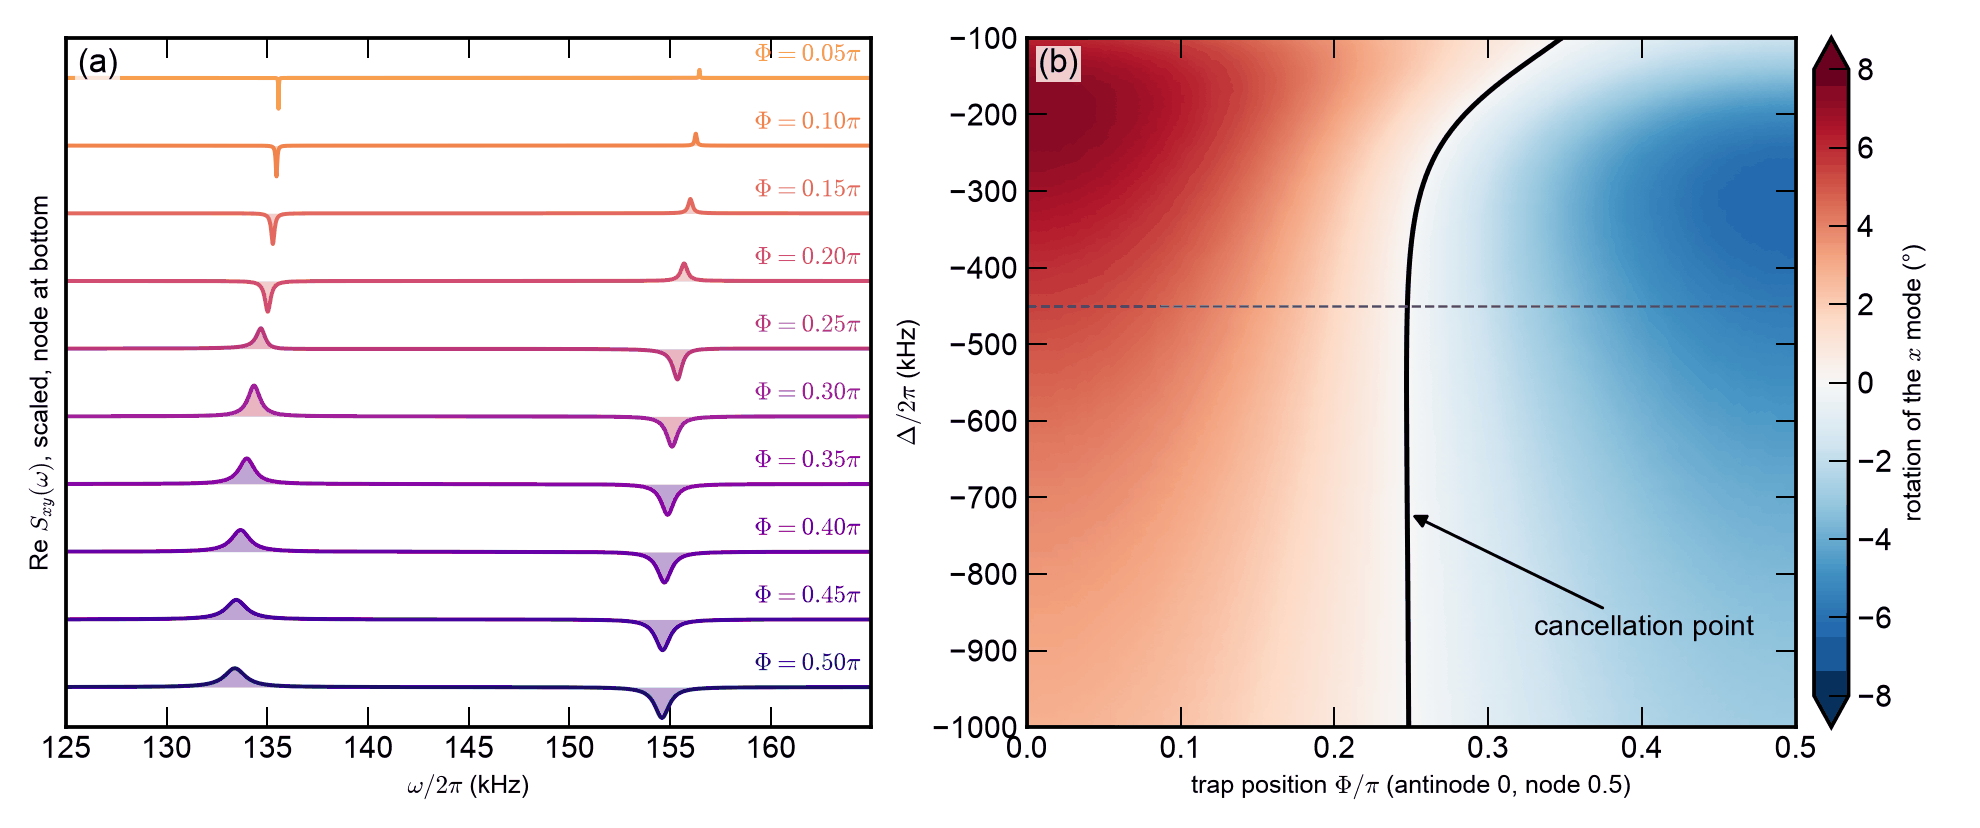
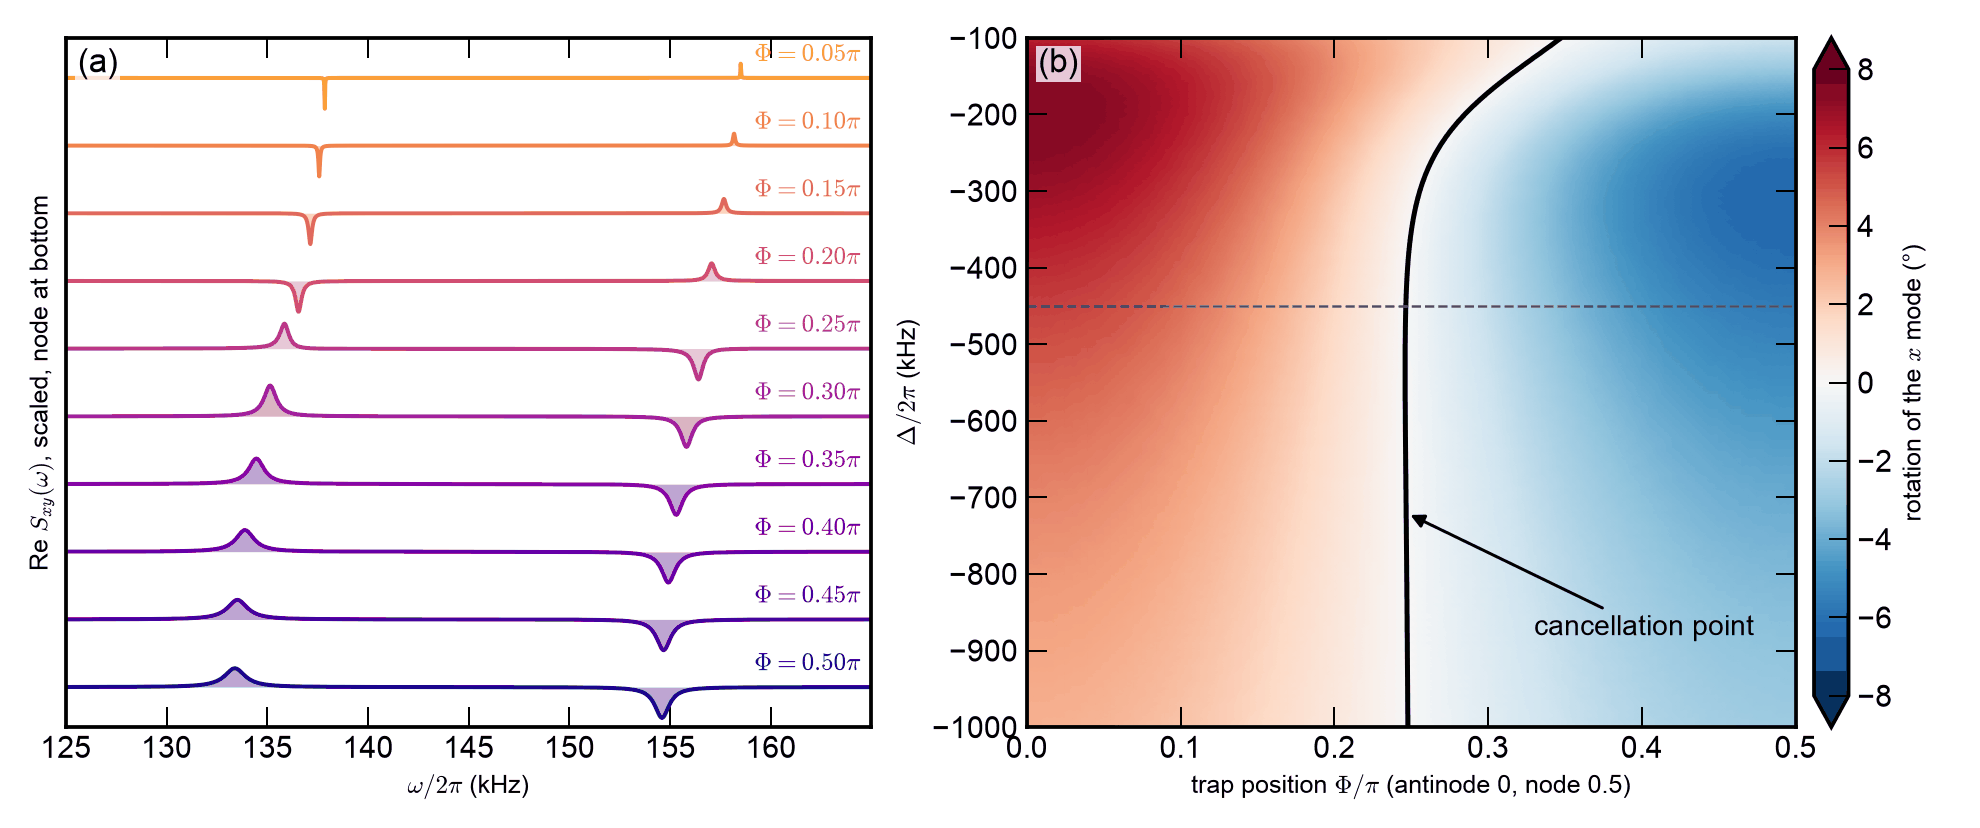
PRR 5 showcase: redraw with the static cavity shifts on (decision 5)
The figure now uses MultiTrap's defaults (static shifts and the 1.0 static-field corrections) instead
of static_cavity_shifts=False. The S_xy peaks move up by up to 2.3 kHz towards the antinode; the
rotation's cancellation point moves from 0.248π to 0.247π at Δ/2π = -450 kHz (0.256π at -300,
0.313π at -150, 0.248π at -1000 kHz unchanged); the net frequency shifts cross zero at 0.256π (x) and
0.255π (y) for -450 kHz (0.257π, 0.256π with the 0.1.1 model) and 0.315π, 0.3085π for -150 kHz.
Caption, showcase page and README say so.

diff --git a/docs/guide/scripts/showcase/prr5_mode_orientations.py b/docs/guide/scripts/showcase/prr5_mode_orientations.py
@@ -15,13 +15,15 @@ modes keep their unperturbed orientation and the x-y cross spectrum S_xy vanishe
     (b) rotation of the x-like normal mode away from the tweezer x axis, over Φ and the detuning Δ,
         from the eigenvectors of the drift matrix; the black contour is the cancellation point
 
-The figure is drawn with static_cavity_shifts=False, the model this showcase was first made with.
-`MultiTrap` now also includes the static coherent-scattering shift of the mechanical frequencies (on
-by default; see `MultiTrap.setup_static_cavity_shifts`). It moves the cancellation point by at most
-0.001π, and with it the net frequency shift of both modes (static stiffening minus optical spring)
-crosses zero at Φ = 0.257π (x) and 0.255π (y) for Δ/2π = -450 kHz, beside the rotation's 0.248π,
-and at 0.315π and 0.308π for -150 kHz (rotation, with the shifts: 0.3135π; without: 0.3133π): the paper's coincidence of the two
-cancellations.
+The figure is drawn with levisim's defaults, which include the static coherent-scattering shifts of
+the mechanical frequencies (`MultiTrap.setup_static_cavity_shifts`) and the static-field
+corrections of levisim 1.0 (tweezer phases, the dispersive coupling and pull of the cavity's own
+standing wave, the cavity mode envelope, Re α_eff): the physics of the paper. Until levisim 1.0 it was
+drawn with static_cavity_shifts=False, as first made. With the shifts the S_xy peaks move up by up to
+2.3 kHz towards the antinode, and the cancellation point of the rotation moves from 0.248π to 0.247π
+at Δ/2π = -450 kHz (0.313π at -150 kHz either way); the net frequency shift of both modes (static
+stiffening minus optical spring) crosses zero at Φ = 0.256π (x) and 0.255π (y) for Δ/2π = -450 kHz,
+and at 0.315π and 0.3085π for -150 kHz: the paper's coincidence of the two cancellations.
 """
 import sys
 from pathlib import Path
@@ -50,7 +52,7 @@ def one_particle(Φ, Δ=DEFAULT_cavity_kwargs['Δ'], ω_range=np.arange(125, 165
         cavity_kwargs=dict(DEFAULT_cavity_kwargs, Δ=Δ),   # L = 0.96 cm, finesse 40 000
         beads=[Bead(Φ=Φ)],
         ω_range=ω_range,
-        static_cavity_shifts=False,                       # reproduces the published figure without them
+        # levisim's defaults: the static cavity shifts and the static-field corrections of 1.0 on
     )
 
 

diff --git a/docs/showcase/prr5_mode_orientations.md b/docs/showcase/prr5_mode_orientations.md
@@ -37,8 +37,8 @@ scaled to its own largest value. The $x$ and $y$ motions are always anticorrelat
 sign at $\Omega_y/2\pi \approx 134$ kHz and $\Omega_x/2\pi \approx 155$ kHz), and the sign of the
 pattern flips between $\Phi = 0.25\pi$ and $0.20\pi$. **(b)** The rotation of the $x$-like normal mode
 away from the tweezer $x$ axis, from the eigenvectors of the drift matrix, over $\Phi$ and $\Delta$. The
-black contour, where the rotation is zero, is the cancellation point: $\Phi_\text{c} = 0.248\pi$ at
-$\Delta/2\pi = -450$ kHz and $-1000$ kHz, moving towards the node as the detuning approaches the
+black contour, where the rotation is zero, is the cancellation point: $\Phi_\text{c} = 0.247\pi$ at
+$\Delta/2\pi = -450$ kHz and $0.248\pi$ at $-1000$ kHz, moving towards the node as the detuning approaches the
 mechanical frequencies ($0.256\pi$ at $-300$ kHz, $0.313\pi$ at $-150$ kHz), as the paper anticipates.
 It hardly depends on $\theta$ (within $10^{-3}\pi$ between 20° and 70°), since both couplings carry
 the same factor $\sin\theta\cos\theta$. Every system in the map is linearly stable; the least stable is at the antinode, where the light
@@ -58,16 +58,19 @@ The essential lines:
 
 **The frequency shifts.** The paper also shows that the static field stiffens the mechanical
 frequencies away from the node, opposing the optical spring of the cavity dynamics, and that the two
-frequency shifts cancel at the same point. The figure is drawn without these static shifts
-(`static_cavity_shifts=False`), as first made. `MultiTrap` includes them by default (see
-[static cavity shifts](../concepts/static_cavity_shifts.md)): they move the rotation's cancellation
-point by at most $0.001\pi$, and the net frequency shift of each mode then crosses zero at
-$\Phi = 0.257\pi$ ($x$) and $0.255\pi$ ($y$) for $\Delta/2\pi = -450$ kHz, beside the rotation's
-$0.248\pi$, and at $0.315\pi$ and $0.308\pi$ for $-150$ kHz (rotation $0.3135\pi$ with the shifts, $0.3133\pi$ without), as the paper found.
+frequency shifts cancel at the same point. Since levisim 1.0 the figure includes these static shifts,
+as `MultiTrap` does by default (see [static cavity shifts](../concepts/static_cavity_shifts.md)); it
+was first drawn without them (`static_cavity_shifts=False`). The shifts move the peaks of panel (a) up
+by up to 2.3 kHz towards the antinode and the rotation's cancellation point from $0.248\pi$ to
+$0.247\pi$ at $\Delta/2\pi = -450$ kHz ($0.313\pi$ at $-150$ kHz either way). The net frequency shift
+of each mode crosses zero at $\Phi = 0.256\pi$ ($x$) and $0.255\pi$ ($y$) for $\Delta/2\pi = -450$ kHz,
+beside the rotation's $0.247\pi$, and at $0.315\pi$ and $0.3085\pi$ for $-150$ kHz (rotation
+$0.313\pi$), as the paper found.
 
 :::{figure} ../guide/figures/showcase/prr5_mode_orientations.png
 :width: 100%
 :alt: Cross spectra and the mode rotation map
 
-The static version of the figure, as shown in the README.
+The static version of the figure, as shown in the README, drawn with the static cavity shifts
+(levisim 1.0; until then without them).
 :::

diff --git a/README.md b/README.md
@@ -141,7 +141,7 @@ for Φ in np.linspace(0.5, 0.05, 10) * np.pi:       # from the node (π/2) towar
 
 [![Cross spectra from node to antinode, and the map of the mode rotation with the cancellation point](docs/guide/figures/showcase/prr5_mode_orientations.png)](https://julianiacoponi.github.io/levisim/showcase/prr5_mode_orientations.html)
 
-In (a) the two motions stay anticorrelated, with peaks of opposite sign at 133-136 kHz and 155-156 kHz, and the pattern flips sign between $`\Phi = 0.25\pi`$ and $`0.20\pi`$. In (b) the black contour, where the $`x`$ mode is not rotated at all, is the cancellation point: $`\Phi_\text{c} = 0.248\pi`$ at the default detuning of $`-2\pi \times 450`$ kHz, moving towards the node as the detuning approaches the mechanical frequencies ($`0.313\pi`$ at $`-2\pi \times 150`$ kHz). The figure leaves out the static field's shift of the mechanical frequencies (`static_cavity_shifts=False`). levisim includes it by default, and then the net frequency shift of each mode, static stiffening minus optical spring, crosses zero at $`\Phi = 0.257\pi`$ ($`x`$) and $`0.255\pi`$ ($`y`$), beside the rotation's cancellation point, which is what the paper found.
+In (a) the two motions stay anticorrelated, with peaks of opposite sign at 133-138 kHz and 155-158.5 kHz (the static field stiffens both motions towards the antinode), and the pattern flips sign between $`\Phi = 0.25\pi`$ and $`0.20\pi`$. In (b) the black contour, where the $`x`$ mode is not rotated at all, is the cancellation point: $`\Phi_\text{c} = 0.247\pi`$ at the default detuning of $`-2\pi \times 450`$ kHz, moving towards the node as the detuning approaches the mechanical frequencies ($`0.313\pi`$ at $`-2\pi \times 150`$ kHz). The figure includes the static field's shift of the mechanical frequencies, as levisim does by default (since 1.0; it was first drawn with `static_cavity_shifts=False`, which put the cancellation point at $`0.248\pi`$), and the net frequency shift of each mode, static stiffening minus optical spring, crosses zero at $`\Phi = 0.256\pi`$ ($`x`$) and $`0.255\pi`$ ($`y`$), beside the rotation's cancellation point, which is what the paper found.
 
 ### Sensing a directional noise bath (PRR 6, 2024)
 
